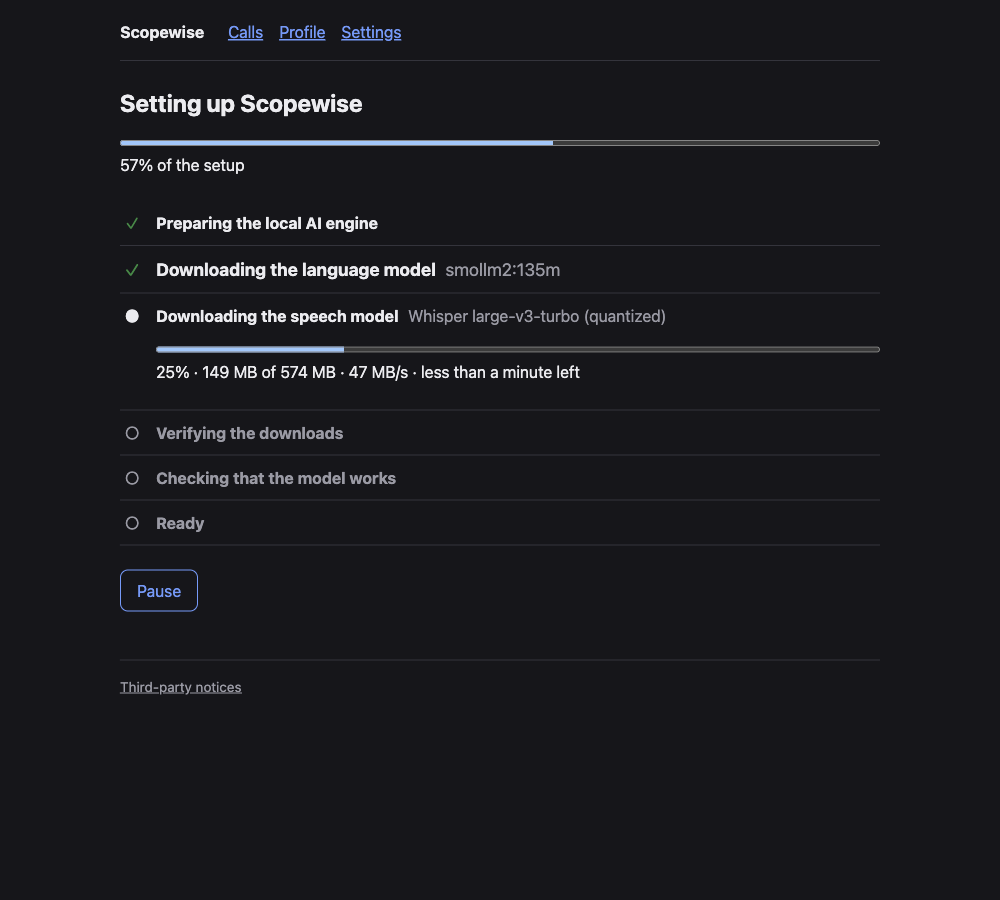
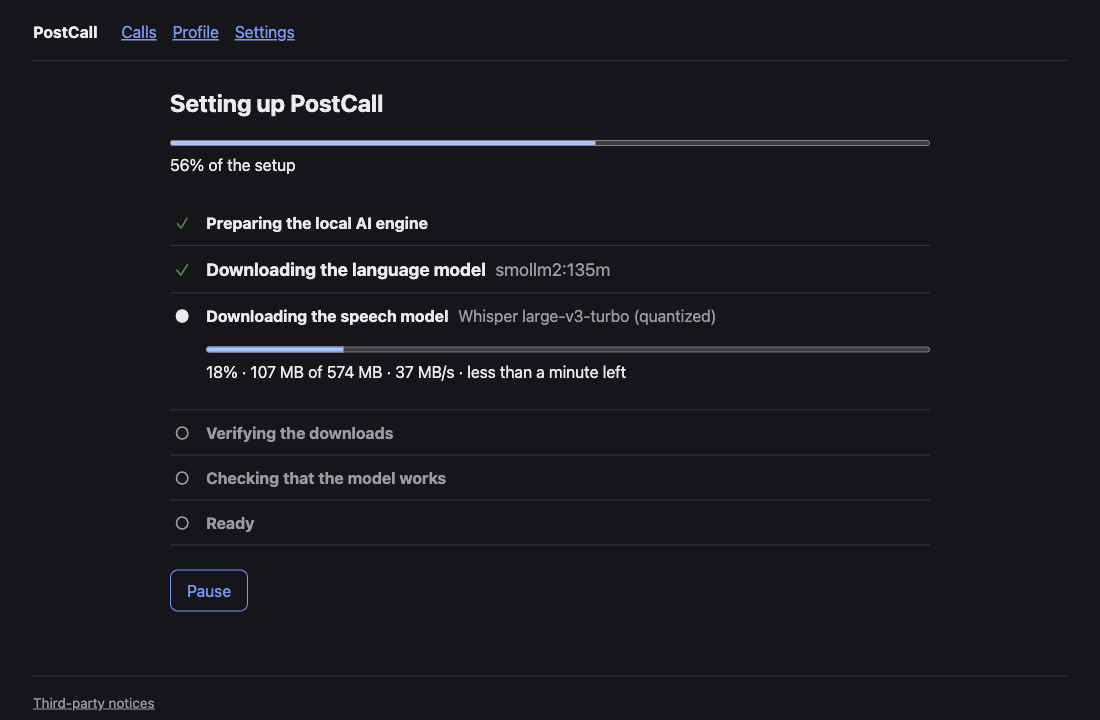
docs: retake the screenshots as PostCall and record the layout decision

diff --git a/README.md b/README.md
@@ -6,10 +6,7 @@ PostCall is a macOS app for freelancers and small agencies. You upload the recor
 
 Built for the DEV Open-Source AI Challenge, Week 2: "Side Hustle". Source code: MIT with a Beerware thank-you (see [License](#license)).
 
-<p>
-  <img src="docs/screenshots/draft.png" alt="A proposal draft in Spanish, with a source quote open under the first scope item" width="420">
-  <img src="docs/screenshots/editor.png" alt="The proposal editor, with source links and assumption checkboxes on every item" width="420">
-</p>
+<img src="docs/screenshots/draft.png" alt="A proposal draft in Spanish: the first scope item with its source quote open, and the cited moment highlighted in the transcript beside it" width="860">
 
 ## The problem
 
@@ -29,10 +26,9 @@ Freelancers (developers, designers, consultants, writers) and small agencies, an
 6. **Draft.** The model writes the proposal from the notes. Your rates and terms are inserted by code, never invented by the model.
 7. **Edit and export.** Fix anything in the app, then export Markdown or PDF.
 
-<p>
-  <img src="docs/screenshots/setup-request.png" alt="The first-launch request: Gemma 4 E4B preselected and marked Recommended, the speech model, total download, disk space, Download now and Not now" width="420">
-  <img src="docs/screenshots/setup-progress.png" alt="The installer-style progress screen with six steps and a download line showing percentage, size, speed and time left" width="420">
-</p>
+<img src="docs/screenshots/setup-request.png" alt="The first-launch request: Gemma 4 E4B preselected and marked Recommended, the speech model, total download, disk space, Download now and Not now" width="860">
+
+<img src="docs/screenshots/setup-progress.png" alt="The installer-style progress screen with six steps and a download line showing percentage, size, speed and time left" width="860">
 
 ### What keeps the draft honest
 
@@ -41,6 +37,8 @@ Freelancers (developers, designers, consultants, writers) and small agencies, an
 - **Prices come only from your profile.** A budget the client mentioned is shown as a labelled note, never used as a price. The summary never contains a price, and pricing always comes after the scope.
 - **If the call did not cover something, the draft says so** and adds it to the open questions (for example, when nobody mentioned a budget or a deadline).
 - **You stay in charge.** The model still makes mistakes. In the included sample the client asks for an automatic invoicing system, and the interviewer's recap says "un menú de facturación", so the draft lists both. The source links make that easy to spot and the editor lets you remove it. Read the draft before you send it.
+
+<img src="docs/screenshots/editor.png" alt="The proposal editor: every item is editable and keeps its source links and an assumption checkbox, with the transcript beside it" width="860">
 
 ## Install
 
@@ -76,10 +74,9 @@ Every model, including the one you type, goes through the same compatibility che
 
 Later, in **Settings**, you can switch to another downloaded model ("Check and use"), download a new one with the same flow, or delete models to free disk space.
 
-<p>
-  <img src="docs/screenshots/settings.png" alt="Settings: the models on this computer with Gemma 4 E4B in use, a download section, the speech model and this computer's memory and free disk" width="420">
-  <img src="docs/screenshots/setup-model-check.png" alt="A model that failed the compatibility check: a plain explanation and a button to use the recommended model" width="420">
-</p>
+<img src="docs/screenshots/settings.png" alt="Settings in two columns: the models on this computer with Gemma 4 E4B in use and the speech model on the left, downloading another model on the right" width="860">
+
+<img src="docs/screenshots/setup-model-check.png" alt="A model that failed the compatibility check: a plain explanation and a button to use the recommended model" width="860">
 
 ## Hardware
 
@@ -98,7 +95,7 @@ What was measured with the default models:
 | Transcription (whisper.cpp, Metal) | 17.7 s | 88 s |
 | Notes plus proposal (Gemma 4 E4B) | 64 s | 160 s |
 
-Memory while working: about 1 GB for transcription and 4.6 GB for Gemma 4 E4B. The 8 GB minimum is the figure the app shows for the default model; it was **not** tested on an 8 GB Mac. The 32-minute file is the 5-minute call repeated six times, so it measures speed, not quality. Timings on a busy Mac can be several times slower: one run inside the packaged app took 74 s for the 5-minute call.
+Memory while working: about 1 GB for transcription and 4.6 GB for Gemma 4 E4B. The 8 GB minimum is the figure the app shows for the default model; it was **not** tested on an 8 GB Mac. The 32-minute file is the 5-minute call repeated six times, so it measures speed, not quality. Inside the packaged app, on a quiet Mac, the 5-minute call took 29 s to transcribe and 52 s for notes and proposal. On a busy Mac (browser, IDE, Docker, a model already loaded) the same call took 74 s and 140 s, so expect a range.
 
 ## The models we tested
 

diff --git a/docs/DECISIONS.md b/docs/DECISIONS.md
@@ -638,3 +638,39 @@ program next to the new one. The README screenshots still show the old name; the
 change, together with the layout work, so they are taken once from the final screens. The GitHub repository
 is still called `hacktoberfest-week3` (renaming it is the owner's call; the README links use that name).
 
+## 2026-10-13: Responsive layout
+
+**The problem, measured.** The report was "blank spaces". Opening the installed app at seven window sizes
+(`desktop/scripts/layout-check.mjs`) showed it: every page lived in a fixed 760 px column, so the default
+1200 px window used 63% of its width, a 1512 px screen 50% and a 2560 px one 30%. Short pages also left the
+footer floating mid-window with up to 1000 px of empty space below it. Nothing scrolled sideways.
+
+**What changed.** The page shell is wider (up to 1400 px, with padding that scales) and fills the window's
+height, so the footer sits at the bottom. Two columns appear where there is something for the second column
+and fold into one by themselves when there is not enough room (a CSS grid with `auto-fit`, so there are no
+breakpoints to keep in step): Settings, the profile form, and the first-launch request, whose "Download now"
+button now fits in the default window without scrolling. On the call page the transcript becomes a panel beside
+the proposal from 1100 px up (a media query read by `useWideScreen`), so "Show in transcript" has somewhere
+visible to land; below that it is the collapsible section it was. Home shows call cards (with language and
+length) in a grid. Pages that are one short column of text or one form (upload, notices, the setup progress)
+stay a centred 760 px column, because very long lines are harder to read than margins. Running text is capped
+at 75 characters wherever it is.
+
+**The check is part of the repository.** `layout-check.mjs` opens every page at 900x600, 1200x800, 1512x982,
+1920x1080, 2560x1440, 600x800 and 390x844 in the real packaged app and fails on: sideways scrolling, more
+than 40 px under the footer, a wide page using less than 85% of the window (or 1300 px), a single column that
+is not centred or is over 760 px, two columns that are missing with room or present without it, and the
+transcript panel missing or taller than the window. 42 combinations pass, and 7 more on a fresh install for
+the first-launch request. Two of my own first rules were wrong and were corrected: the 32 px under the footer
+is the page's own padding, and a sticky panel is judged by its height, not by where it starts at the top.
+The panel itself had a real flaw (border and padding added about 10 px to its height), fixed with
+`box-sizing: border-box`.
+
+**What it does not claim.** Ultra-wide screens still have margins (the shell stops at 1400 px: 52% used at
+2560 px), and Home looks sparse with one call. The check measures space and overflow; it does not judge beauty,
+which was done by looking at the pictures.
+
+**Timing, with the idle Mac.** The end-to-end run on the renamed, re-laid-out app on a quiet Mac took 29 s to
+transcribe the 5-minute call and 52 s for notes and proposal, against 74 s and 140 s in the earlier run on a
+busy one. Same code, same models; the README gives both, as a range.
+

diff --git a/.claude/rules/web.md b/.claude/rules/web.md
@@ -16,3 +16,10 @@ paths:
 - After UI changes, look at the real screens (`web/ui-check/`): typecheck and unit tests do not show layout.
 - A route guard holds every page behind `/setup` until the api says ready. After changing setup logic, rerun
   `web/ui-check/setup-flow.mjs`; the other ui-check flows need the setup completed once first.
+- Layout is responsive: pages fill the window up to the shell's 1400px limit. `.page-grid` gives two columns when
+  there is room and one when there is not (no breakpoints); a page that is one short column of text or one form
+  uses `.page-narrow` (centred, 760px). The call page puts the transcript beside the proposal from 1100px up
+  (`useWideScreen`). The footer stays at the bottom of the window.
+- After a layout change run `desktop/scripts/layout-check.mjs` against the packaged app (its header says how): it
+  opens every page at seven window sizes and fails on sideways scrolling, blank space, uncentred or unused width.
+
